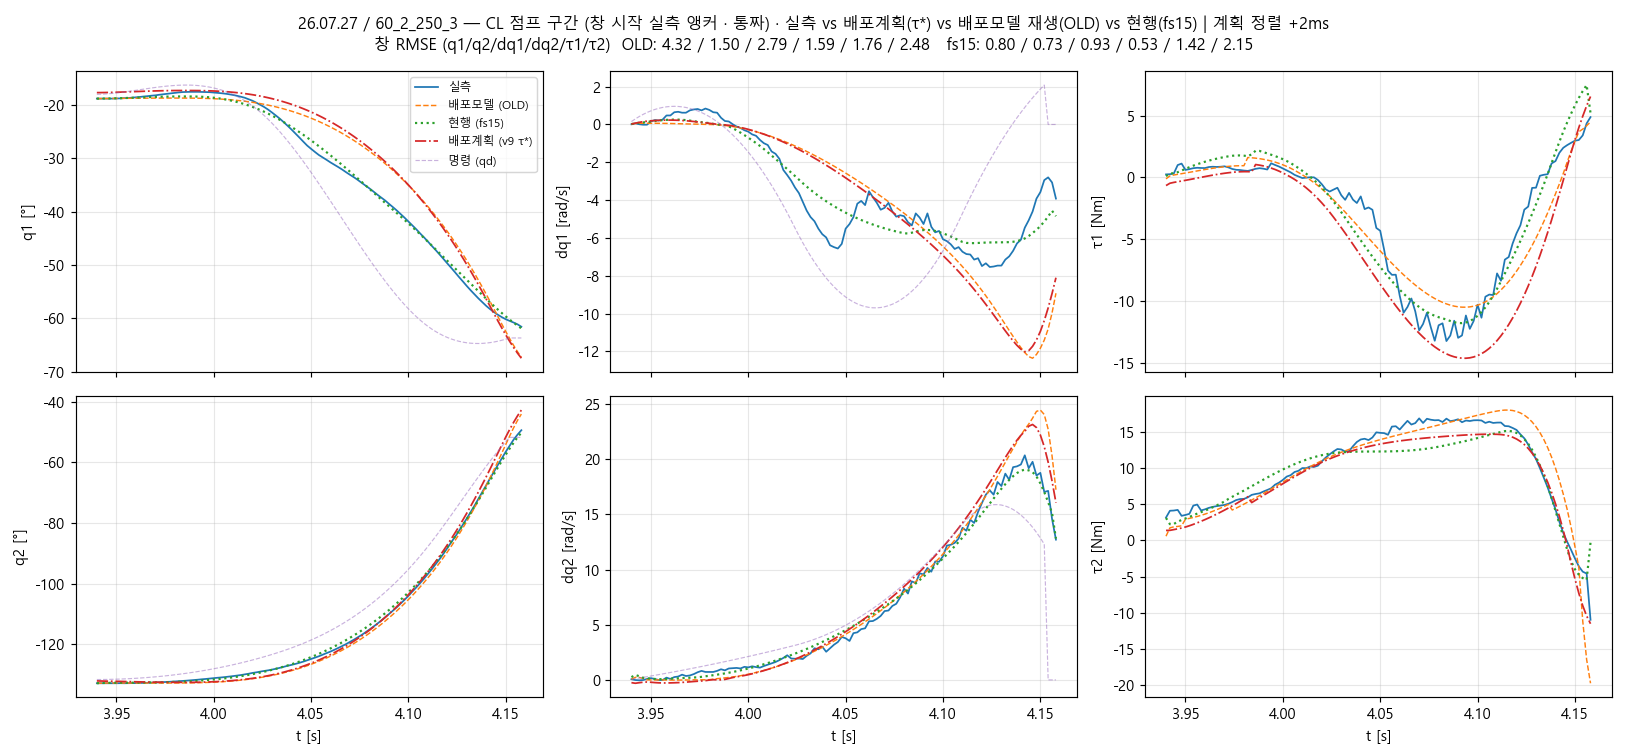
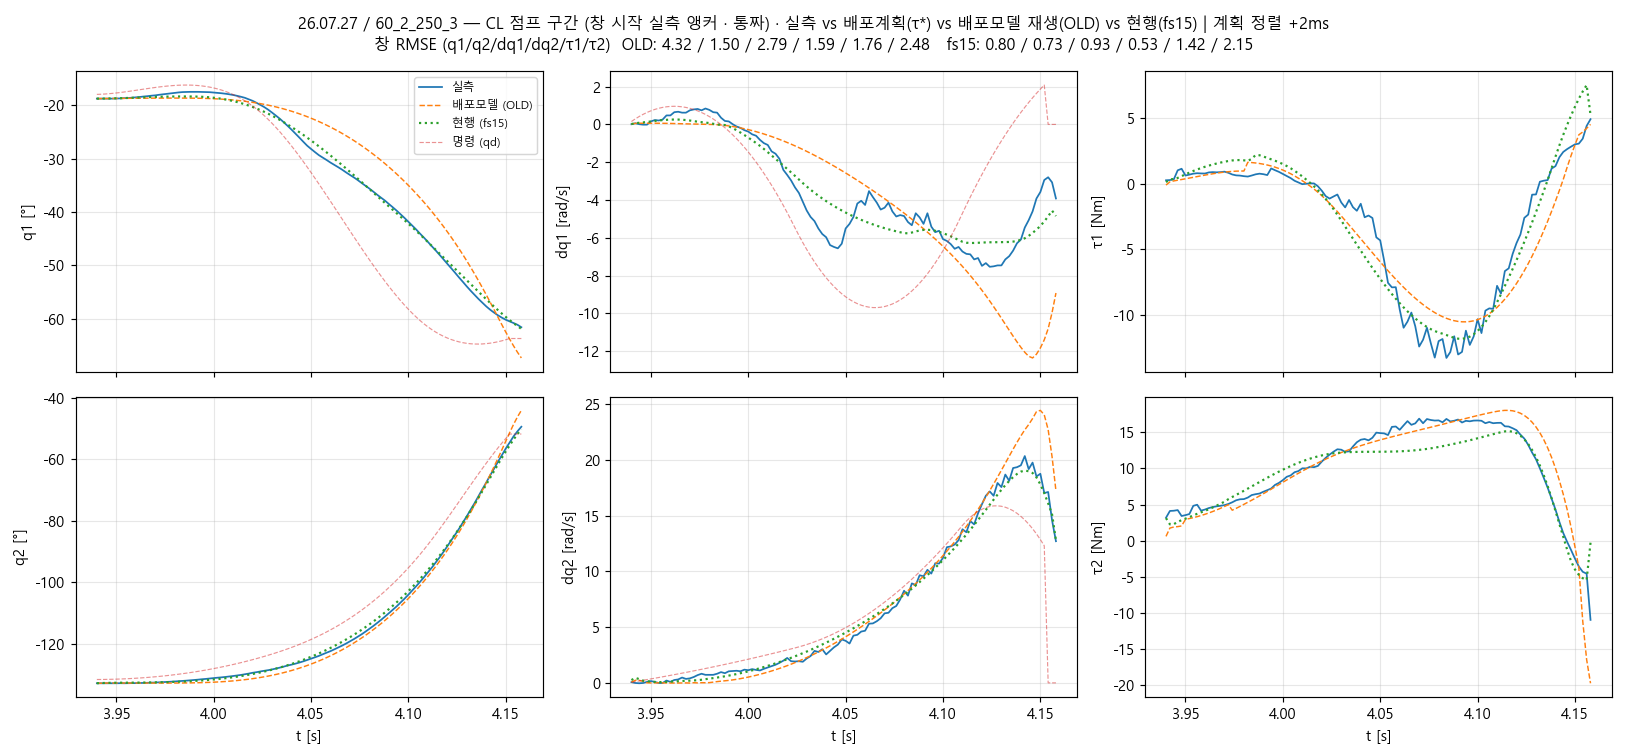
P22 (사용자 결정): CL 그래프에서 배포계획선 제거, OLD 재생 유지 (계획은 OLD가 재현·27일 한정) — 훅·PLAYBOOK 동기화
Claude-Session: https://claude.ai/code/session_018tXRZDWy9RG1Z1qWD21UNo

diff --git a/code/goal23_fullspan/fs_compare_plot.py b/code/goal23_fullspan/fs_compare_plot.py
@@ -289,7 +289,8 @@ def plot_cl(sess, name, d, seg, g):
         a.plot(t, y, lw=1.2, label="실측")
         a.plot(t, yo, "--", lw=1.0, label="배포모델 (OLD)")
         a.plot(t, yf, ":", lw=1.5, label="현행 (fs15)")
-        if pl is not None:
+        if pl is not None and os.environ.get("FS_PLAN") == "1":
+            # 기본 미표시 (사용자 결정 P22): OLD 재생이 계획을 RMSE≤0.2로 포함 + 계획은 27일만 존재.
             yp = np.degrees(pl[0][j]) if k in ("q1", "q2") else pl[0][j]
             a.plot(t, yp, "-.", lw=1.2, label="배포계획 (v9 τ*)")
         if cmd[j] is not None:

diff --git a/code/bench/PLAYBOOK.md b/code/bench/PLAYBOOK.md
@@ -88,6 +88,8 @@
    CL `rollout_cl_fs(init_meas=)` · ModeA `rollout_ol_fs_b` · OLD `cl_old_meas`(정본 문자 미러, 골든 0.00)
 4. **OLD α** = 게인 의존 보간 (`alpha_of`/`alphas_for`, α≤1). 상수 fallback(0.40/0.656) 금지,
    세션 α(R19.ALPH)는 kp_ref 기하평균 기준으로 게인 의존 복원 후 사용
-5. **형식** = 6패널(q1·q2·dq1·dq2·τ1·τ2), 선 = 실측 / 배포계획(τ*, 있으면) / OLD 재생 / 현행 / 명령(qd),
-   색 리터럴 금지. 배포 계획은 exp5 규약(측정 qd2 ↔ 계획 qd2 미분 교차상관)으로 시각 정렬.
+5. **형식** = 6패널(q1·q2·dq1·dq2·τ1·τ2), 선 = 실측 / OLD 재생 / 현행 / 명령(qd), 색 리터럴 금지
+6. **배포계획선은 기본 미표시** (P22 결정) — OLD 재생이 계획을 RMSE≤0.2로 재현(골든)하고 계획은 27일만
+   존재해 중복·비대칭. 진단 시 `FS_PLAN=1`로 켜며, 정렬은 **RMSE 최소 + 명령 홀드 구간 제외**
+   (미분 교차상관 금지 — 위상만 맞아 12ms 어긋난 전례 P19→P20)
 구현 기준본: `goal23_fullspan/fs_compare_plot.py` (CVT는 `fs_compare_cvt.py`).
